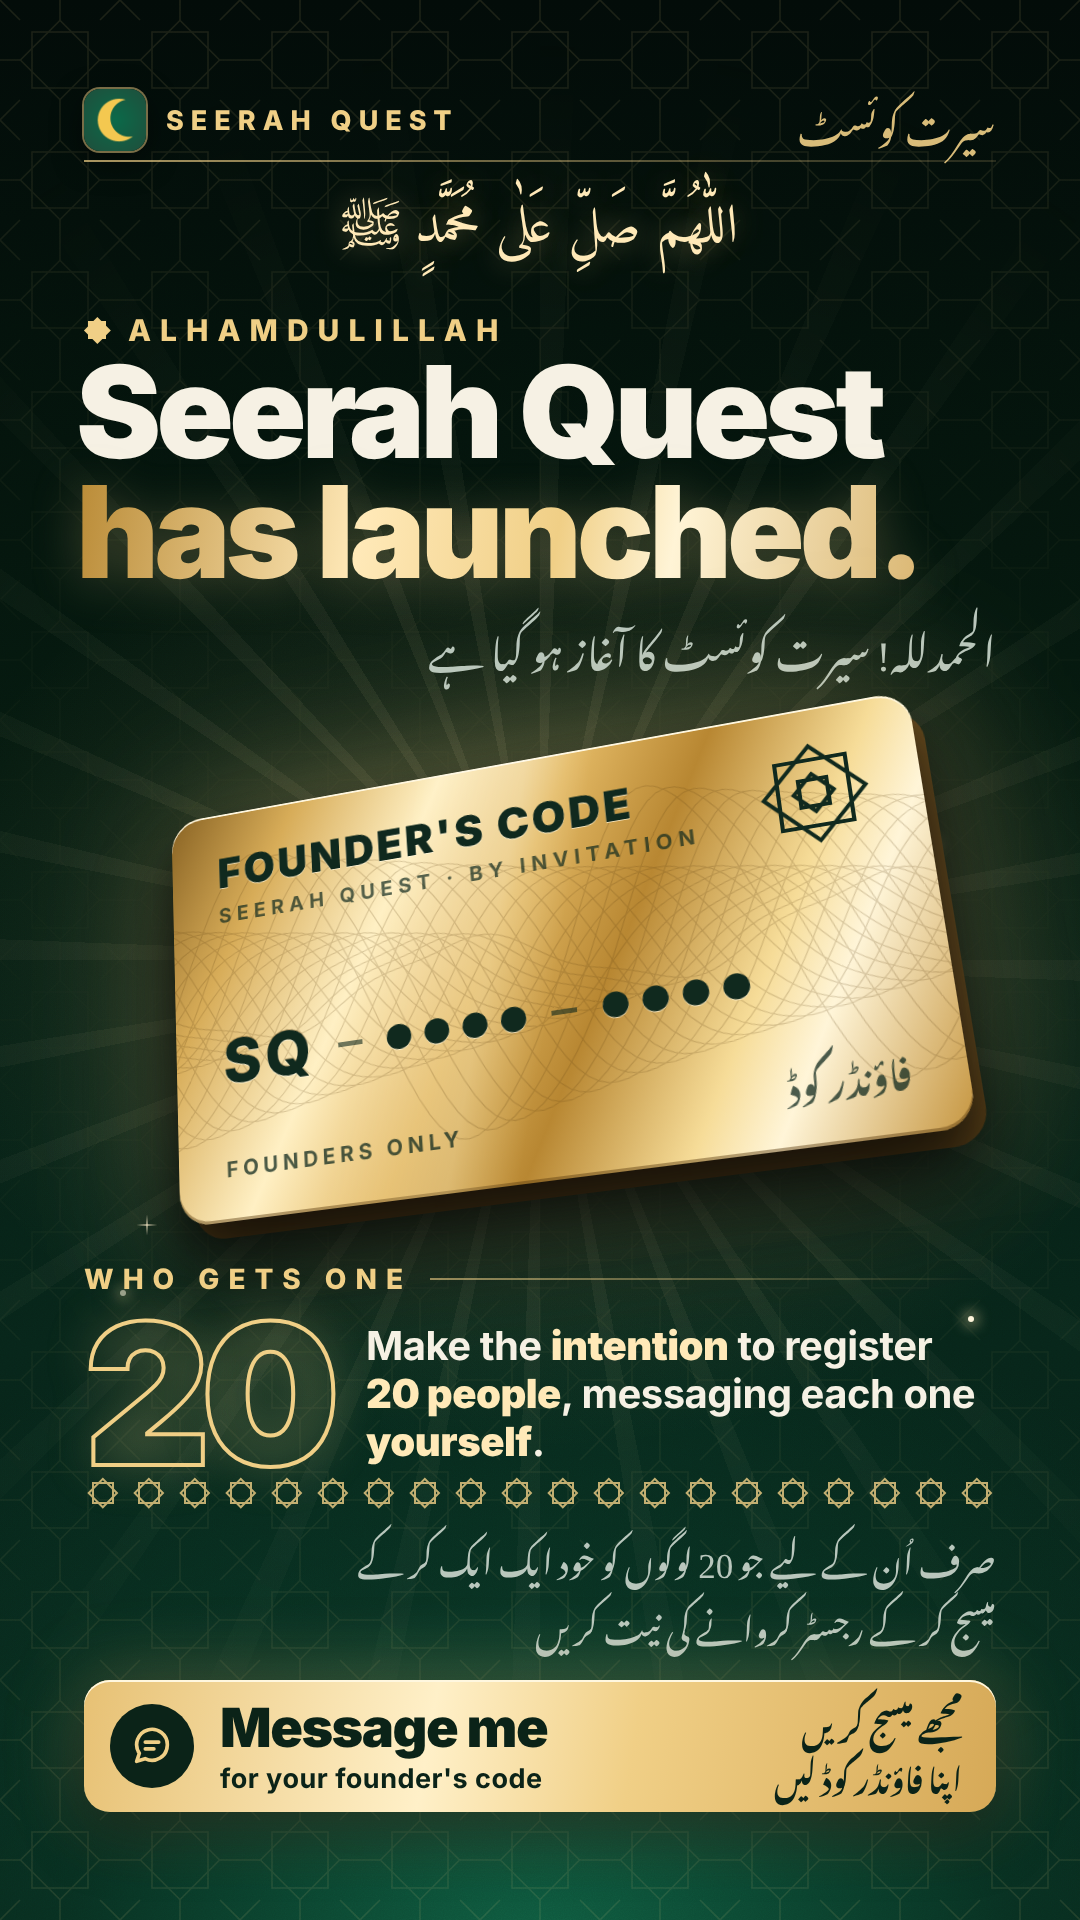
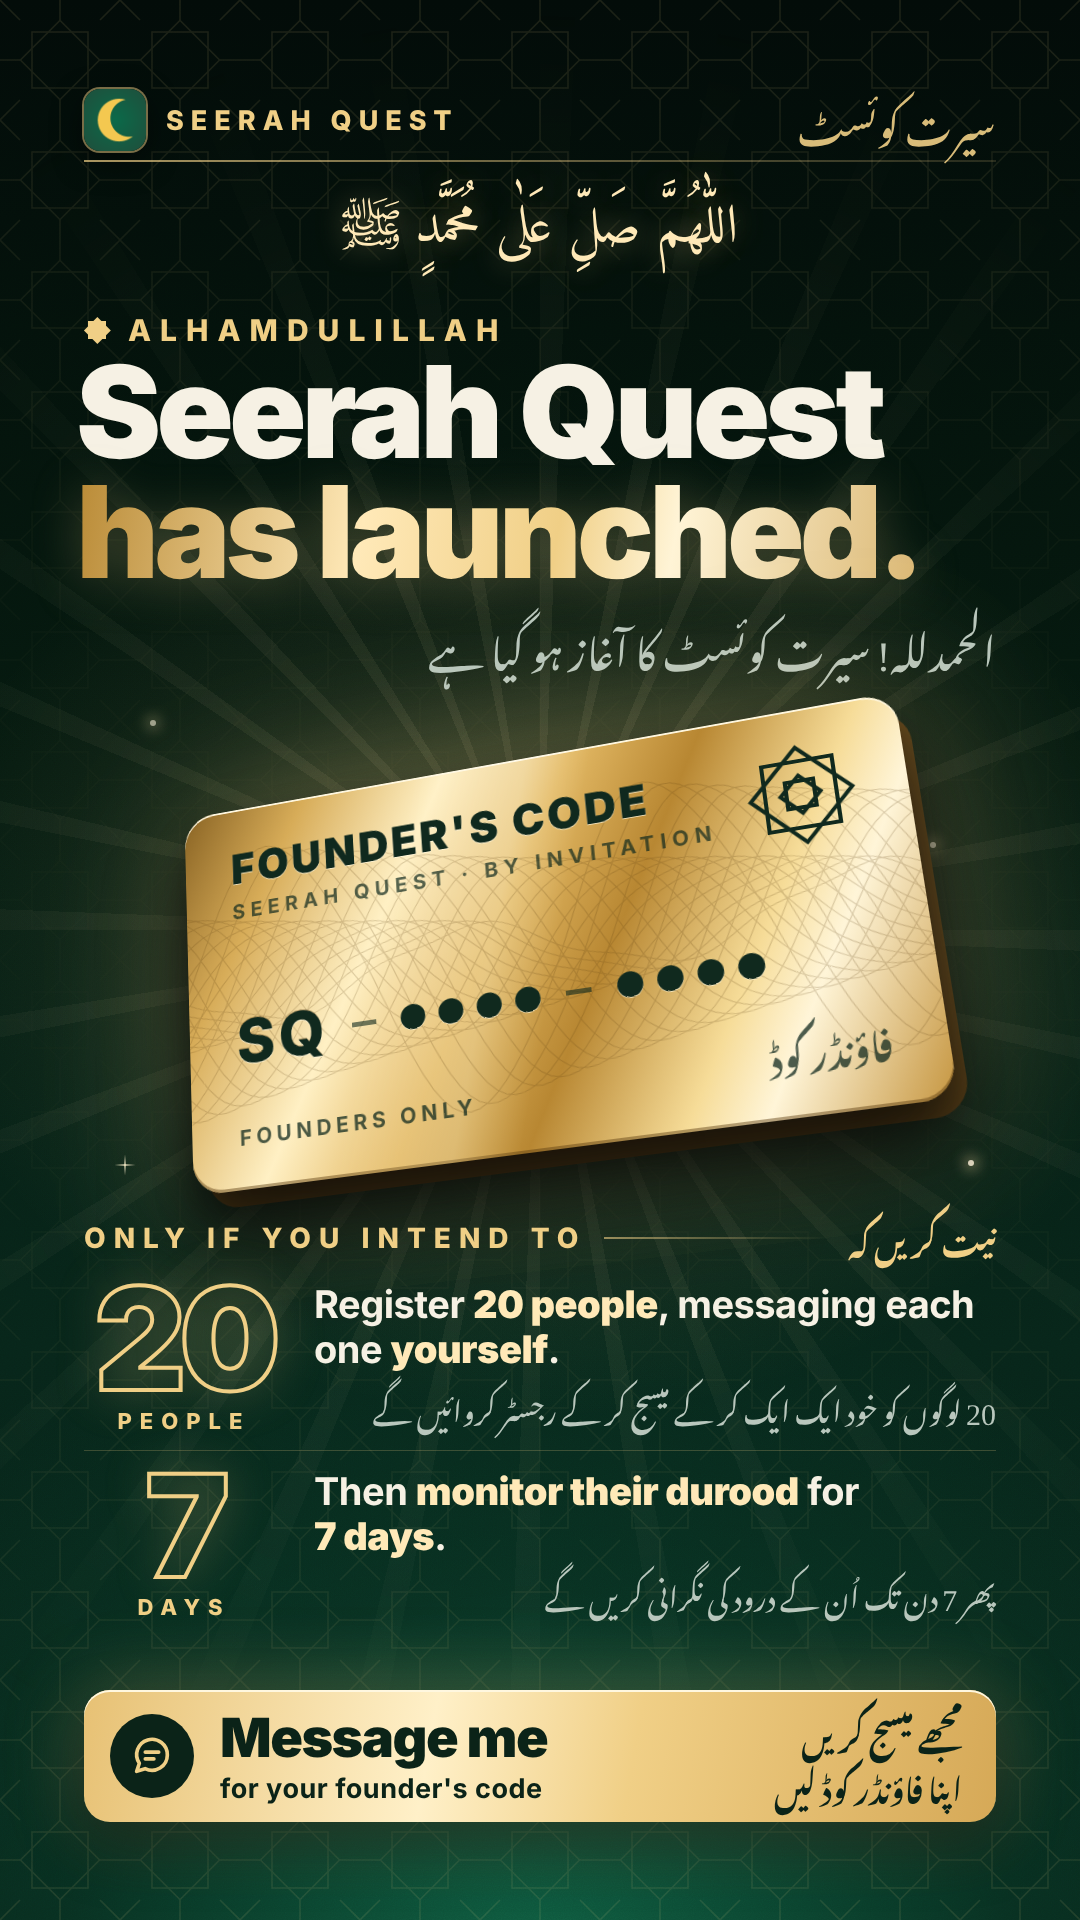
Poster 001: second intention, monitor the 20 people's durood for 7 days
Claude-Session: https://claude.ai/code/session_01AD5mDrDD84GXzyH4WqEMHg

Changed region(s): [[0.0611, 0.3438, 0.9167, 0.9688]]

diff --git a/posters/001-launched/poster.html b/posters/001-launched/poster.html
@@ -24,10 +24,10 @@ body { position: relative; font-family: 'Inter', sans-serif; color: var(--ink); 
 
 /* ---------- background ---------- */
 #bg { inset: 0; background:
-  radial-gradient(900px 700px at 50% 960px, rgba(240, 207, 134, .26) 0%, rgba(240, 207, 134, .07) 40%, rgba(240, 207, 134, 0) 70%),
+  radial-gradient(900px 700px at 50% 930px, rgba(240, 207, 134, .26) 0%, rgba(240, 207, 134, .07) 40%, rgba(240, 207, 134, 0) 70%),
   radial-gradient(1200px 900px at 50% 1950px, #0f5a3f 0%, rgba(10, 60, 42, .5) 40%, rgba(4, 20, 15, 0) 75%),
   linear-gradient(#020b08 0%, #05190f 40%, #072419 70%, #062016 100%); }
-#rays { left: 50%; top: 960px; width: 2600px; height: 2600px; margin: -1300px 0 0 -1300px; border-radius: 50%;
+#rays { left: 50%; top: 930px; width: 2600px; height: 2600px; margin: -1300px 0 0 -1300px; border-radius: 50%;
   background: repeating-conic-gradient(from 0deg, rgba(255, 233, 184, .075) 0deg 2.2deg, rgba(255, 233, 184, 0) 2.2deg 11.25deg);
   -webkit-mask: radial-gradient(closest-side, #000 8%, rgba(0, 0, 0, .55) 35%, transparent 72%); mask: radial-gradient(closest-side, #000 8%, rgba(0, 0, 0, .55) 35%, transparent 72%); }
 #girih { inset: 0; opacity: .1; -webkit-mask: linear-gradient(#000, rgba(0, 0, 0, .25) 30%, rgba(0, 0, 0, .1) 55%, #000 100%); mask: linear-gradient(#000, rgba(0, 0, 0, .25) 30%, rgba(0, 0, 0, .1) 55%, #000 100%); }
@@ -53,7 +53,7 @@ body { position: relative; font-family: 'Inter', sans-serif; color: var(--ink); 
 #headUr { left: 84px; right: 84px; top: 604px; font-size: 42px; line-height: 1.9; color: var(--soft); text-align: right; }
 
 /* ---------- the founder's card ---------- */
-#cardWrap { left: 50%; top: 742px; width: 790px; height: 440px; margin-left: -395px; perspective: 1700px; }
+#cardWrap { left: 50%; top: 742px; width: 760px; height: 410px; margin-left: -380px; perspective: 1700px; }
 #card { position: absolute; inset: 0; border-radius: 34px; transform: rotateX(16deg) rotateY(-14deg) rotateZ(-5deg); transform-style: preserve-3d;
   background: linear-gradient(118deg, #8a6424 0%, #d7ac58 14%, #fff0c4 30%, #e3b965 44%, #b88732 58%, #f6dc98 74%, #fff5d8 82%, #c5953f 100%);
   box-shadow: 0 2px 0 #fff7df inset, 0 -3px 0 rgba(90, 60, 15, .45) inset, 0 60px 90px rgba(0, 0, 0, .65), 0 24px 40px rgba(0, 0, 0, .45), 0 0 160px rgba(240, 207, 134, .35); overflow: hidden; color: #10291e; }
@@ -68,29 +68,29 @@ body { position: relative; font-family: 'Inter', sans-serif; color: var(--ink); 
 #emblem .star { position: absolute; inset: 0; font-size: 104px; }
 #emblem .star i { background: none; border: 4px solid currentColor; }
 #emblem .in { position: absolute; inset: 30px; font-size: 44px; }
-#code { left: 52px; right: 52px; top: 236px; display: flex; align-items: center; gap: 26px; font-weight: 800; font-size: 64px; letter-spacing: 4px; text-shadow: 0 1px 0 rgba(255, 248, 225, .75), 0 -1px 0 rgba(80, 50, 10, .35); }
+#code { left: 52px; right: 52px; top: 218px; display: flex; align-items: center; gap: 26px; font-weight: 800; font-size: 64px; letter-spacing: 4px; text-shadow: 0 1px 0 rgba(255, 248, 225, .75), 0 -1px 0 rgba(80, 50, 10, .35); }
 #code .dots { display: flex; gap: 14px; }
 #code .dots b { width: 26px; height: 26px; border-radius: 50%; background: #10291e; box-shadow: 0 1px 0 rgba(255, 248, 225, .7); }
 #code .sep { width: 26px; height: 5px; background: #10291e; opacity: .6; }
 #cBot { left: 52px; right: 52px; bottom: 40px; display: flex; justify-content: space-between; align-items: flex-end; font-weight: 700; font-size: 22px; letter-spacing: 5px; text-transform: uppercase; opacity: .75; }
 #cBot .ur { font-size: 34px; letter-spacing: 0; text-transform: none; line-height: 1.4; }
 
-/* ---------- the condition ---------- */
-#cond { left: 84px; right: 84px; top: 1262px; }
-#cond .k { display: flex; align-items: center; gap: 18px; font-weight: 800; font-size: 28px; letter-spacing: 9px; text-transform: uppercase; color: var(--gold); }
-#cond .k::after { content: ''; flex: 1; height: 2px; background: linear-gradient(90deg, rgba(240, 207, 134, .6), transparent); }
-#cond .row { display: flex; align-items: center; gap: 36px; margin-top: 22px; }
-#n20 { font-weight: 900; font-size: 196px; line-height: .78; letter-spacing: -10px; color: transparent; -webkit-text-stroke: 4px var(--gold); text-shadow: 0 0 50px rgba(240, 207, 134, .25); }
-#cond .txt { font-weight: 700; font-size: 40px; line-height: 1.2; letter-spacing: -.5px; }
+/* ---------- the condition: two intentions ---------- */
+#cond { left: 84px; right: 84px; top: 1214px; }
+#cond .k { display: flex; align-items: center; gap: 18px; font-weight: 800; font-size: 28px; letter-spacing: 8px; text-transform: uppercase; color: var(--gold); white-space: nowrap; }
+#cond .k::after { content: ''; flex: 1; order: 1; height: 2px; background: linear-gradient(90deg, rgba(240, 207, 134, .6), transparent); }
+#cond .k .ur { order: 2; font-size: 30px; letter-spacing: 0; text-transform: none; font-weight: 700; line-height: 1.6; }
+#cond .row { display: flex; align-items: center; gap: 30px; margin-top: 20px; }
+#cond .row + .row { margin-top: 16px; padding-top: 18px; border-top: 1px solid rgba(240, 207, 134, .22); }
+#cond .num { width: 200px; flex: none; text-align: center; }
+#cond .num b { display: block; font-weight: 900; font-size: 142px; line-height: .8; letter-spacing: -7px; color: transparent; -webkit-text-stroke: 4px var(--gold); text-shadow: 0 0 50px rgba(240, 207, 134, .25); }
+#cond .num span { display: block; margin-top: 12px; font-weight: 800; font-size: 22px; letter-spacing: 8px; text-transform: uppercase; color: var(--gold); }
+#cond .txt { flex: 1; font-weight: 700; font-size: 38px; line-height: 1.18; letter-spacing: -.5px; }
 #cond .txt b { font-weight: 900; color: var(--gold2); }
-#people { left: 84px; right: 84px; top: 1478px; display: grid; grid-template-columns: repeat(20, 1fr); gap: 8px; }
-#people span { font-size: 30px; color: var(--gold); justify-self: center; }
-#people span { opacity: .8; }
-#people span i { background: none; border: 2.5px solid currentColor; }
-#condUr { left: 84px; right: 84px; top: 1522px; font-size: 35px; line-height: 1.9; color: var(--soft); text-align: right; }
+#cond .txt .ur { display: block; margin-top: 6px; font-weight: 400; font-size: 30px; line-height: 1.85; color: var(--soft); letter-spacing: 0; text-align: right; }
 
 /* ---------- call to action ---------- */
-#cta { left: 84px; right: 84px; top: 1680px; height: 132px; display: flex; align-items: center; gap: 26px; padding: 0 34px 0 26px; border-radius: 26px; color: #0b2318;
+#cta { left: 84px; right: 84px; top: 1690px; height: 132px; display: flex; align-items: center; gap: 26px; padding: 0 34px 0 26px; border-radius: 26px; color: #0b2318;
   background: linear-gradient(100deg, #e7c174 0%, #fff0c8 38%, #f0cf86 60%, #d6a957 100%); box-shadow: 0 2px 0 #fff7df inset, 0 24px 60px rgba(0, 0, 0, .45), 0 0 80px rgba(240, 207, 134, .3); }
 #cta .ic { width: 84px; height: 84px; flex: none; border-radius: 50%; background: #0b2318; display: grid; place-items: center; }
 #cta .ic svg { width: 46px; height: 46px; }
@@ -120,10 +120,10 @@ body { position: relative; font-family: 'Inter', sans-serif; color: var(--ink); 
 
 <i class="spark" style="left:196px;top:880px"></i>
 <i class="spark" style="left:930px;top:842px;opacity:.7"></i>
-<i class="spark" style="left:120px;top:1290px;opacity:.6"></i>
-<i class="spark" style="left:968px;top:1316px"></i>
+<i class="spark" style="left:150px;top:720px;opacity:.6"></i>
+<i class="spark" style="left:968px;top:1160px"></i>
 <i class="spark x" style="left:878px;top:868px"></i>
-<i class="spark x" style="left:132px;top:1210px;transform:scale(.7)"></i>
+<i class="spark x" style="left:110px;top:1150px;transform:scale(.7)"></i>
 
 <div class="abs" id="brand">
   <div class="l"><img src="../../assets/icon-512.png" alt="">Seerah Quest</div>
@@ -153,14 +153,16 @@ body { position: relative; font-family: 'Inter', sans-serif; color: var(--ink); 
 </div>
 
 <div class="abs" id="cond">
-  <div class="k">Who gets one</div>
+  <div class="k">Only if you intend to<span class="ur">نیت کریں کہ</span></div>
   <div class="row">
-    <div id="n20">20</div>
-    <div class="txt">Make the <b>intention</b> to register <b>20&nbsp;people</b>, messaging each one <b>yourself</b>.</div>
+    <div class="num"><b>20</b><span>people</span></div>
+    <div class="txt">Register <b>20&nbsp;people</b>, messaging each one <b>yourself</b>.<span class="ur">20 لوگوں کو خود ایک ایک کر کے میسج کر کے رجسٹر کروائیں گے</span></div>
+  </div>
+  <div class="row">
+    <div class="num"><b>7</b><span>days</span></div>
+    <div class="txt">Then <b>monitor their durood</b> for <b>7&nbsp;days</b>.<span class="ur">پھر 7 دن تک اُن کے درود کی نگرانی کریں گے</span></div>
   </div>
 </div>
-<div class="abs" id="people"></div>
-<div class="abs ur" id="condUr">صرف اُن کے لیے جو 20 لوگوں کو خود ایک ایک کر کے<br>میسج کر کے رجسٹر کروانے کی نیت کریں</div>
 
 <div class="abs" id="cta">
   <div class="ic"><svg viewBox="0 0 24 24" fill="none" stroke="#f0cf86" stroke-width="1.9" stroke-linejoin="round" stroke-linecap="round"><path d="M20 11.5a8 8 0 0 1-11.6 7.1L4 20l1.4-4.2A8 8 0 1 1 20 11.5Z"/><path d="M8.5 10h7M8.5 13.5h4.5"/></svg></div>
@@ -179,9 +181,6 @@ for (let k = 0; k < 26; k++) {
   }
   const p = document.createElementNS('http://www.w3.org/2000/svg', 'path'); p.setAttribute('d', d); g.appendChild(p);
 }
-// twenty people: the first one is you
-const pp = document.getElementById('people');
-for (let i = 0; i < 20; i++) pp.insertAdjacentHTML('beforeend', '<span class="star"><i></i><i></i></span>');
 </script>
 </body>
 </html>

diff --git a/posters/001-launched/post.md b/posters/001-launched/post.md
@@ -2,25 +2,27 @@
 
 Portrait poster, 1080 × 1920 (`poster.png`), for WhatsApp Status, Stories and DMs. For people who have already seen the promos, so it explains nothing about the app. It says three things:
 - **Seerah Quest has launched.**
-- **Founder's codes** go only to those who make the intention to register 20 people, messaging each one personally.
+- **Founder's codes** go only to those who make the intention to register 20 people, messaging each one personally, and then to monitor their durood for 7 days.
 - **Message me** to get one.
 
-The look: deep green and gold, a gold "Founder's code" card in 3D with its code hidden, and twenty stars for the twenty people. The card has no chip so it doesn't read as a bank card (the app is free).
+The look: deep green and gold, a gold "Founder's code" card in 3D with its code hidden, and the two intentions as big outlined numbers: 20 people, 7 days. The card has no chip so it doesn't read as a bank card (the app is free).
 
 | Part | English | Urdu |
 |---|---|---|
 | Top | Seerah Quest | سیرت کوئسٹ · اللّٰهُمَّ صَلِّ عَلٰى مُحَمَّدٍ ﷺ |
 | Headline | Alhamdulillah · Seerah Quest has launched. | الحمدللہ! سیرت کوئسٹ کا آغاز ہو گیا ہے |
 | Card | Founder's code · Seerah Quest · By invitation · Founders only | فاؤنڈر کوڈ |
-| Condition | Who gets one: make the intention to register 20 people, messaging each one yourself. | صرف اُن کے لیے جو 20 لوگوں کو خود ایک ایک کر کے میسج کر کے رجسٹر کروانے کی نیت کریں |
+| Condition | Only if you intend to: | نیت کریں کہ |
+| 20 people | Register 20 people, messaging each one yourself. | 20 لوگوں کو خود ایک ایک کر کے میسج کر کے رجسٹر کروائیں گے |
+| 7 days | Then monitor their durood for 7 days. | پھر 7 دن تک اُن کے درود کی نگرانی کریں گے |
 | Button | Message me for your founder's code | مجھے میسج کریں، اپنا فاؤنڈر کوڈ لیں |
 
 ## Text to post
 
 > Alhamdulillah, Seerah Quest has launched ﷺ
-> Founder's codes are for those who make the intention to bring 20 people, messaging each one personally. Message me for yours.
+> Founder's codes are for those who make the intention to bring 20 people, messaging each one personally, and then to monitor their durood for 7 days. Message me for yours.
 >
-> الحمدللہ، سیرت کوئسٹ کا آغاز ہو گیا ہے۔ فاؤنڈر کوڈ صرف اُن کے لیے جو 20 لوگوں کو خود ایک ایک کر کے میسج کر کے رجسٹر کروانے کی نیت کریں۔ اپنا کوڈ لینے کے لیے مجھے میسج کریں۔
+> الحمدللہ، سیرت کوئسٹ کا آغاز ہو گیا ہے۔ فاؤنڈر کوڈ صرف اُن کے لیے جو 20 لوگوں کو خود ایک ایک کر کے میسج کر کے رجسٹر کروانے اور پھر 7 دن تک اُن کے درود کی نگرانی کرنے کی نیت کریں۔ اپنا کوڈ لینے کے لیے مجھے میسج کریں۔
 
 ## Before posting
 

diff --git a/README.md b/README.md
@@ -36,7 +36,7 @@ This branch holds content only; the app lives on the main branch. PDF guides can
 
 | # | Title | Size | Kind |
 |---|---|---|---|
-| 001 | [Seerah Quest has launched](posters/001-launched/post.md) | 1080 × 1920 | Launch: founder's codes for those who intend to register 20 people |
+| 001 | [Seerah Quest has launched](posters/001-launched/post.md) | 1080 × 1920 | Launch: founder's codes for those who intend to register 20 people and monitor their durood for 7 days |
 
 ## Making or changing a video
 
